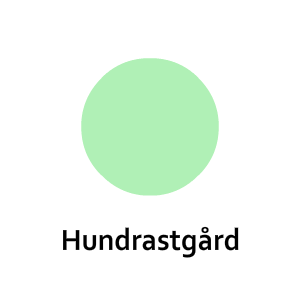
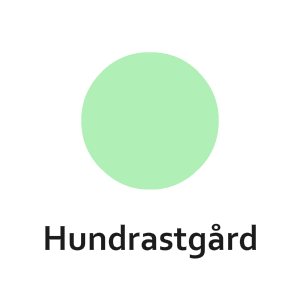
More style added

diff --git a/components/Park/ParkMenu.tsx b/components/Park/ParkMenu.tsx
@@ -1,4 +1,5 @@
-import { StyleSheet, Text, View, SafeAreaView, Button } from 'react-native';
+import { StyleSheet, Text, View, SafeAreaView, Button, TouchableOpacity, Image } from 'react-native';
+import { Typography, Base, Buttons, Images } from '../../styles';
 
 export default function Menu({ navigation }) {
 
@@ -11,8 +12,28 @@ export default function Menu({ navigation }) {
     }
 
     return (
-        <View>
-            <Button
+        <View style={Base.centerContainer}>
+
+            <Text style={Typography.boldCenter2}>
+                Välj vy
+            </Text>
+
+            <View style={Base.rowContainer}>
+                <View style={Buttons.buttonContainer}>
+                    <TouchableOpacity onPress={goToList} style={Buttons.button}>
+                        <Image source={require("../../assets/lista.png")} style={Images.buttonImageSmall} />
+                    </TouchableOpacity>
+                </View>
+
+                <View style={Buttons.buttonContainer}>
+                    <TouchableOpacity onPress={goToMap} style={Buttons.button}>
+                        <Image source={require("../../assets/karta.png")} style={Images.buttonImageSmall} />
+                    </TouchableOpacity>
+                </View>
+            </View>
+
+
+            {/* <Button
                 color='#313131'
                 title="Lista"
                 onPress={goToList}
@@ -22,7 +43,7 @@ export default function Menu({ navigation }) {
                 color='#313131'
                 title="Karta"
                 onPress={goToMap}
-            />
+            /> */}
         </View>
     );
 };

diff --git a/styles/typography.tsx b/styles/typography.tsx
@@ -22,7 +22,7 @@ export const header2 = {
 
 export const normal = {
     color: '#333',
-    fontSize: 17,
+    fontSize: 19,
     fontFamily: "sans-serif",
     marginBottom: 10,
 };
@@ -30,18 +30,28 @@ export const normal = {
 export const normalCenter = {
     textAlign: "center",
     color: '#333',
-    fontSize: 17,
+    fontSize: 19,
     fontFamily: "sans-serif",
-    marginBottom: 10,
+    marginBottom: 30,
 };
 
 export const boldCenter = {
     textAlign: "center",
     color: '#333',
-    fontSize: 17,
+    fontSize: 19,
     fontFamily: "sans-serif",
-    marginBottom: 10,
+    marginBottom: 5,
     fontWeight: 'bold'
+};
+
+export const boldCenter2 = {
+    textAlign: "center",
+    color: '#333',
+    fontSize: 19,
+    fontFamily: "sans-serif",
+    fontWeight: 'bold',
+    marginTop: 50,
+    marginBottom: 30
 };
 
 export const cursive = {

diff --git a/styles/images.tsx b/styles/images.tsx
@@ -3,6 +3,11 @@ export const buttonImage = {
     height: 148,
 }
 
+export const buttonImageSmall = {
+    width: 130,
+    height: 130,
+}
+
 export const heart = {
     marginTop: 30,
     width: 50,
